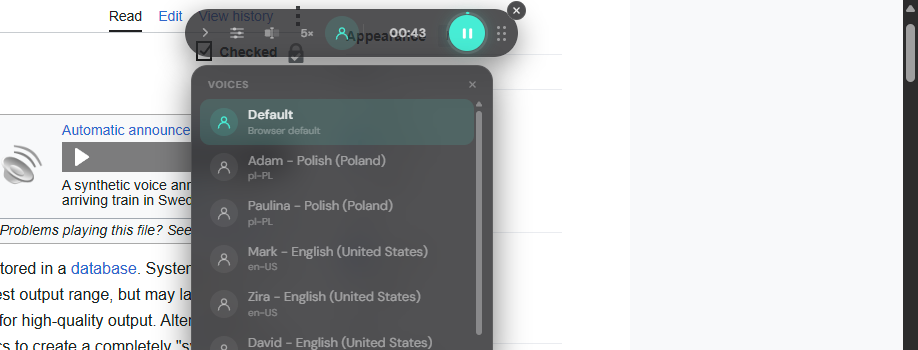
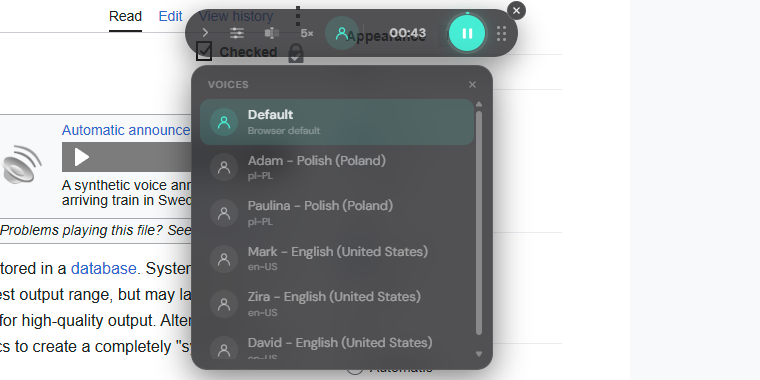
Fix hero crop cutoff and unify gallery crop dimensions
- Hero previously cut off the widget's play button at the right edge
  (crop was ~60px too narrow). Widened and shifted the crop so the
  full widget renders with margin.
- The three gallery crops had wildly different source aspect ratios
  (trigger 4.5:1, settings 4.15:1, voices 2.6:1), so at a shared grid
  width they displayed at very different heights and the trigger shot
  was too short to read. All three now use the same 760x380 (2:1)
  crop region.
- Added height:220px + object-fit:cover on .gallery img as a CSS
  safeguard, so display height stays uniform even if a future crop
  isn't pixel-perfect.

Verified via DOM query (not just visual screenshot, which hit an
unrelated Browser-pane compositing glitch at that scroll position):
all three gallery images load at identical 760x380 and render at a
uniform 220px height.

diff --git a/landing/index.html b/landing/index.html
@@ -100,8 +100,8 @@
   }
   .gallery figure { margin: 0; }
   .gallery img {
-    width: 100%; display: block; border-radius: 12px;
-    border: 1px solid var(--card-border);
+    width: 100%; height: 220px; object-fit: cover; display: block;
+    border-radius: 12px; border: 1px solid var(--card-border);
   }
   .gallery figcaption { margin-top: 10px; font-size: 14px; color: var(--subtext); text-align: center; }
 
